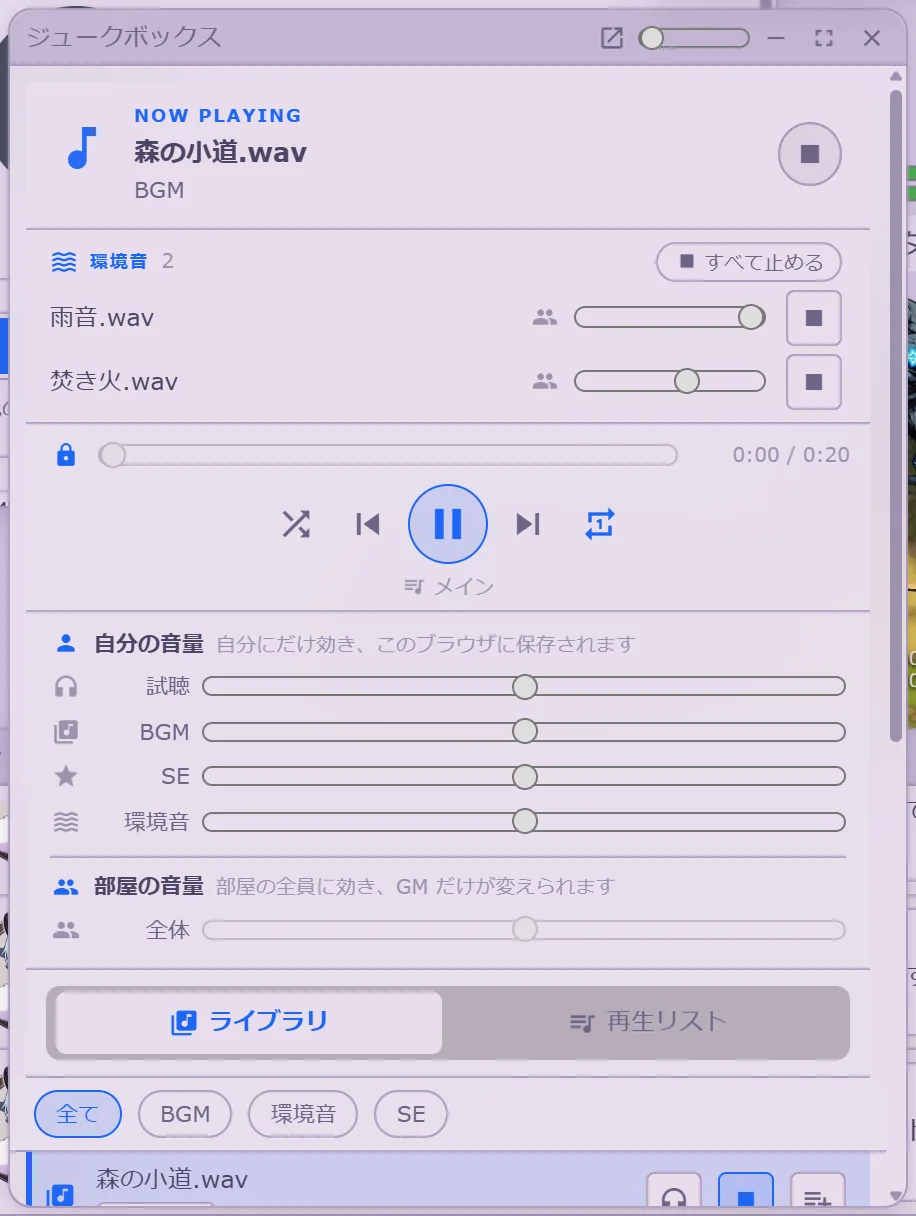
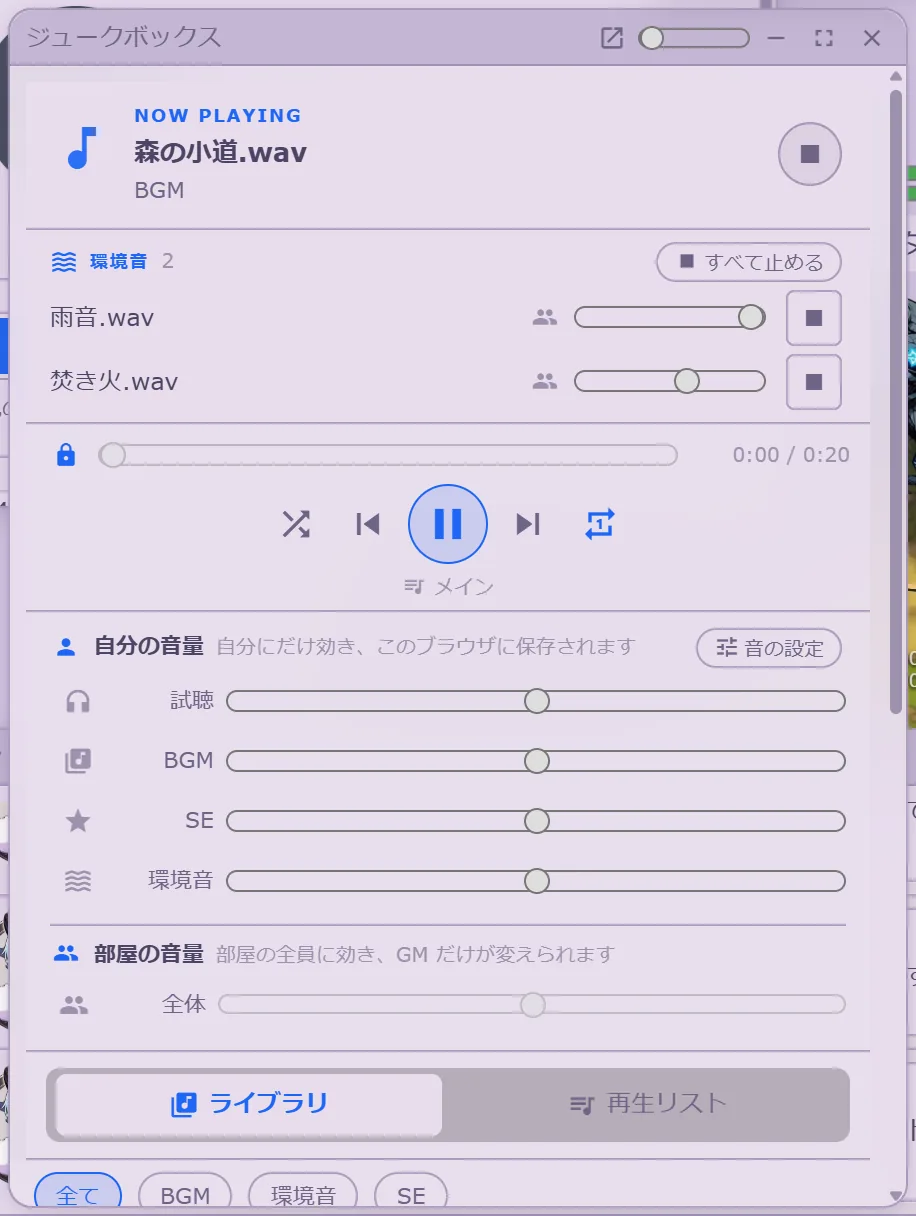
docs(website): add a page on the sound settings
The new page lists what each kind of sound covers, how to turn a kind off,
and how the chat note and the room volume sit beside them. The jukebox,
chat and manual index pages point to it, and the jukebox screenshot is
retaken with the off buttons and the way to the panel.

Changed region(s): [[0.0306, 0.5, 0.9476, 1.0], [0.9476, 0.5938, 1.0, 0.625]]

diff --git a/website/.vitepress/config.ts b/website/.vitepress/config.ts
@@ -257,6 +257,7 @@ export default defineConfig({
           items: [
             { text: '画像', link: '/manual/images' },
             { text: 'ジュークボックス', link: '/manual/jukebox' },
+            { text: '音の設定', link: '/manual/sound-settings' },
             { text: 'カットイン', link: '/manual/cut-in' },
             { text: 'マップ演出（エフェクト）', link: '/manual/map-effects' },
             { text: 'ビジュアルノベルモード', link: '/manual/visual-novel' },

diff --git a/website/manual/sound-settings.md b/website/manual/sound-settings.md
@@ -1,0 +1,34 @@
+# 音の設定
+
+自分の端末で鳴る音の大きさを、音の種類ごとに決めるパネルです。FABメニューの「表示」の小窓にある「音の設定」から開きます。ジュークボックスの「自分の音量」の横にあるボタンや、チャット設定の発言の効果音の欄からも開けます。スマートフォンでは、メニューの「音の設定」から開きます。
+
+ここで決めた値は自分にだけ効き、このブラウザに保存されます。部屋のデータには入らず、ほかの参加者にも送られません。
+
+<Shot src="sound-settings" alt="音の設定パネル。自分の音量の欄に、試聴・BGM・環境音・カットイン・通知音・操作音・演出の効果音・その他の効果音のスライダーが並び、通知音だけが消してある。下にチャットの通知音の欄が続く" width="420" caption="通知音を消したところ。左のボタンが赤くなり、スライダーが薄くなります" />
+
+## 自分の音量
+
+音の種類ごとに、スライダーが1本ずつあります。
+
+| 種類           | 鳴る音                                                                                                           |
+| -------------- | ---------------------------------------------------------------------------------------------------------------- |
+| 試聴           | ジュークボックスやカットインの曲選びで、自分だけが聞く音                                                         |
+| BGM            | ジュークボックスの音楽                                                                                           |
+| 環境音         | 雨や焚き火などのループ（[環境音](/manual/jukebox#環境音)）                                                       |
+| カットイン     | カットインの音楽、場面に合わせて鳴る音、YouTube動画の音                                                          |
+| 通知音         | チャットの発言の効果音、アラーム                                                                                 |
+| 操作音         | ダイスやコインを振る音、カードを引く・混ぜる音、コマやダイスを持ち上げる・置く音、ロック、片付け                 |
+| 演出の効果音   | マップ演出の音、HPなどが増えたり減ったりしたときの音                                                             |
+| その他の効果音 | ジュークボックスのSE、ノベルモードの効果音、ホットバーやスイッチで鳴らす部屋に追加した音など、上のどれでもない音 |
+
+各行の左のボタンを押すと、その種類の音を消せます。もう一度押すと、消す前の音量に戻ります。消しているあいだは、ボタンが赤くなり、スライダーが薄くなります。
+
+実際に聞こえる大きさは、それぞれの値に部屋の音量を掛けたものです。
+
+## チャットの通知音
+
+チャット設定の発言の効果音と同じ設定です（[発言があったら音で知らせる](/manual/chat#発言があったら音で知らせる)）。どちらで変えても、同じ値が動きます。ここで決めた音量には、さらに「通知音」のスライダーが掛かります。
+
+## 部屋の音量
+
+部屋の全員に効く音量です。動かせるのはGMだけで、ほかの参加者には値だけが見えます。ジュークボックスの「部屋の音量」と同じものです。

diff --git a/website/manual/jukebox.md b/website/manual/jukebox.md
@@ -46,6 +46,8 @@ BGMや効果音（SE）、環境音を再生・管理します。FABメニュー
 
 部屋の音量にある全体は、部屋の全員にかかる音量です。動かせるのはGMだけです。実際に聞こえる大きさは、試聴・BGM・SE・環境音のそれぞれに全体の値を掛けたものです。ミニプレイヤーの音量スライダーは、パネルのBGMと同じ値を動かします。
 
+各行の左のボタンを押すと、その音を自分の端末でだけ消せます。見出しの横の「音の設定」からは、カットインや通知音、ダイスなどの操作音まで、種類ごとに音量を決めるパネルが開きます（[音の設定](/manual/sound-settings)）。
+
 ## 効果音（SE）
 
 各音源のタグを**SE**にすると、効果音として扱われます。

diff --git a/website/manual/chat.md b/website/manual/chat.md
@@ -124,6 +124,8 @@
 この設定も他と同じくこの端末だけのもので、部屋にも他の参加者にも送られません。同じ卓で、鳴らす人と
 鳴らさない人が同席できます。
 
+同じ設定は[音の設定](/manual/sound-settings)のパネルにも並んでいます。ここで決めた音量には、音の設定の「通知音」のスライダーがさらに掛かります。
+
 ## システムちゃん
 
 システムメッセージとダイスの結果に表示される絵が、システムちゃんです。チャット設定の**システムちゃん**から、表示するかどうかと絵そのものを部屋ごとに設定できます。
